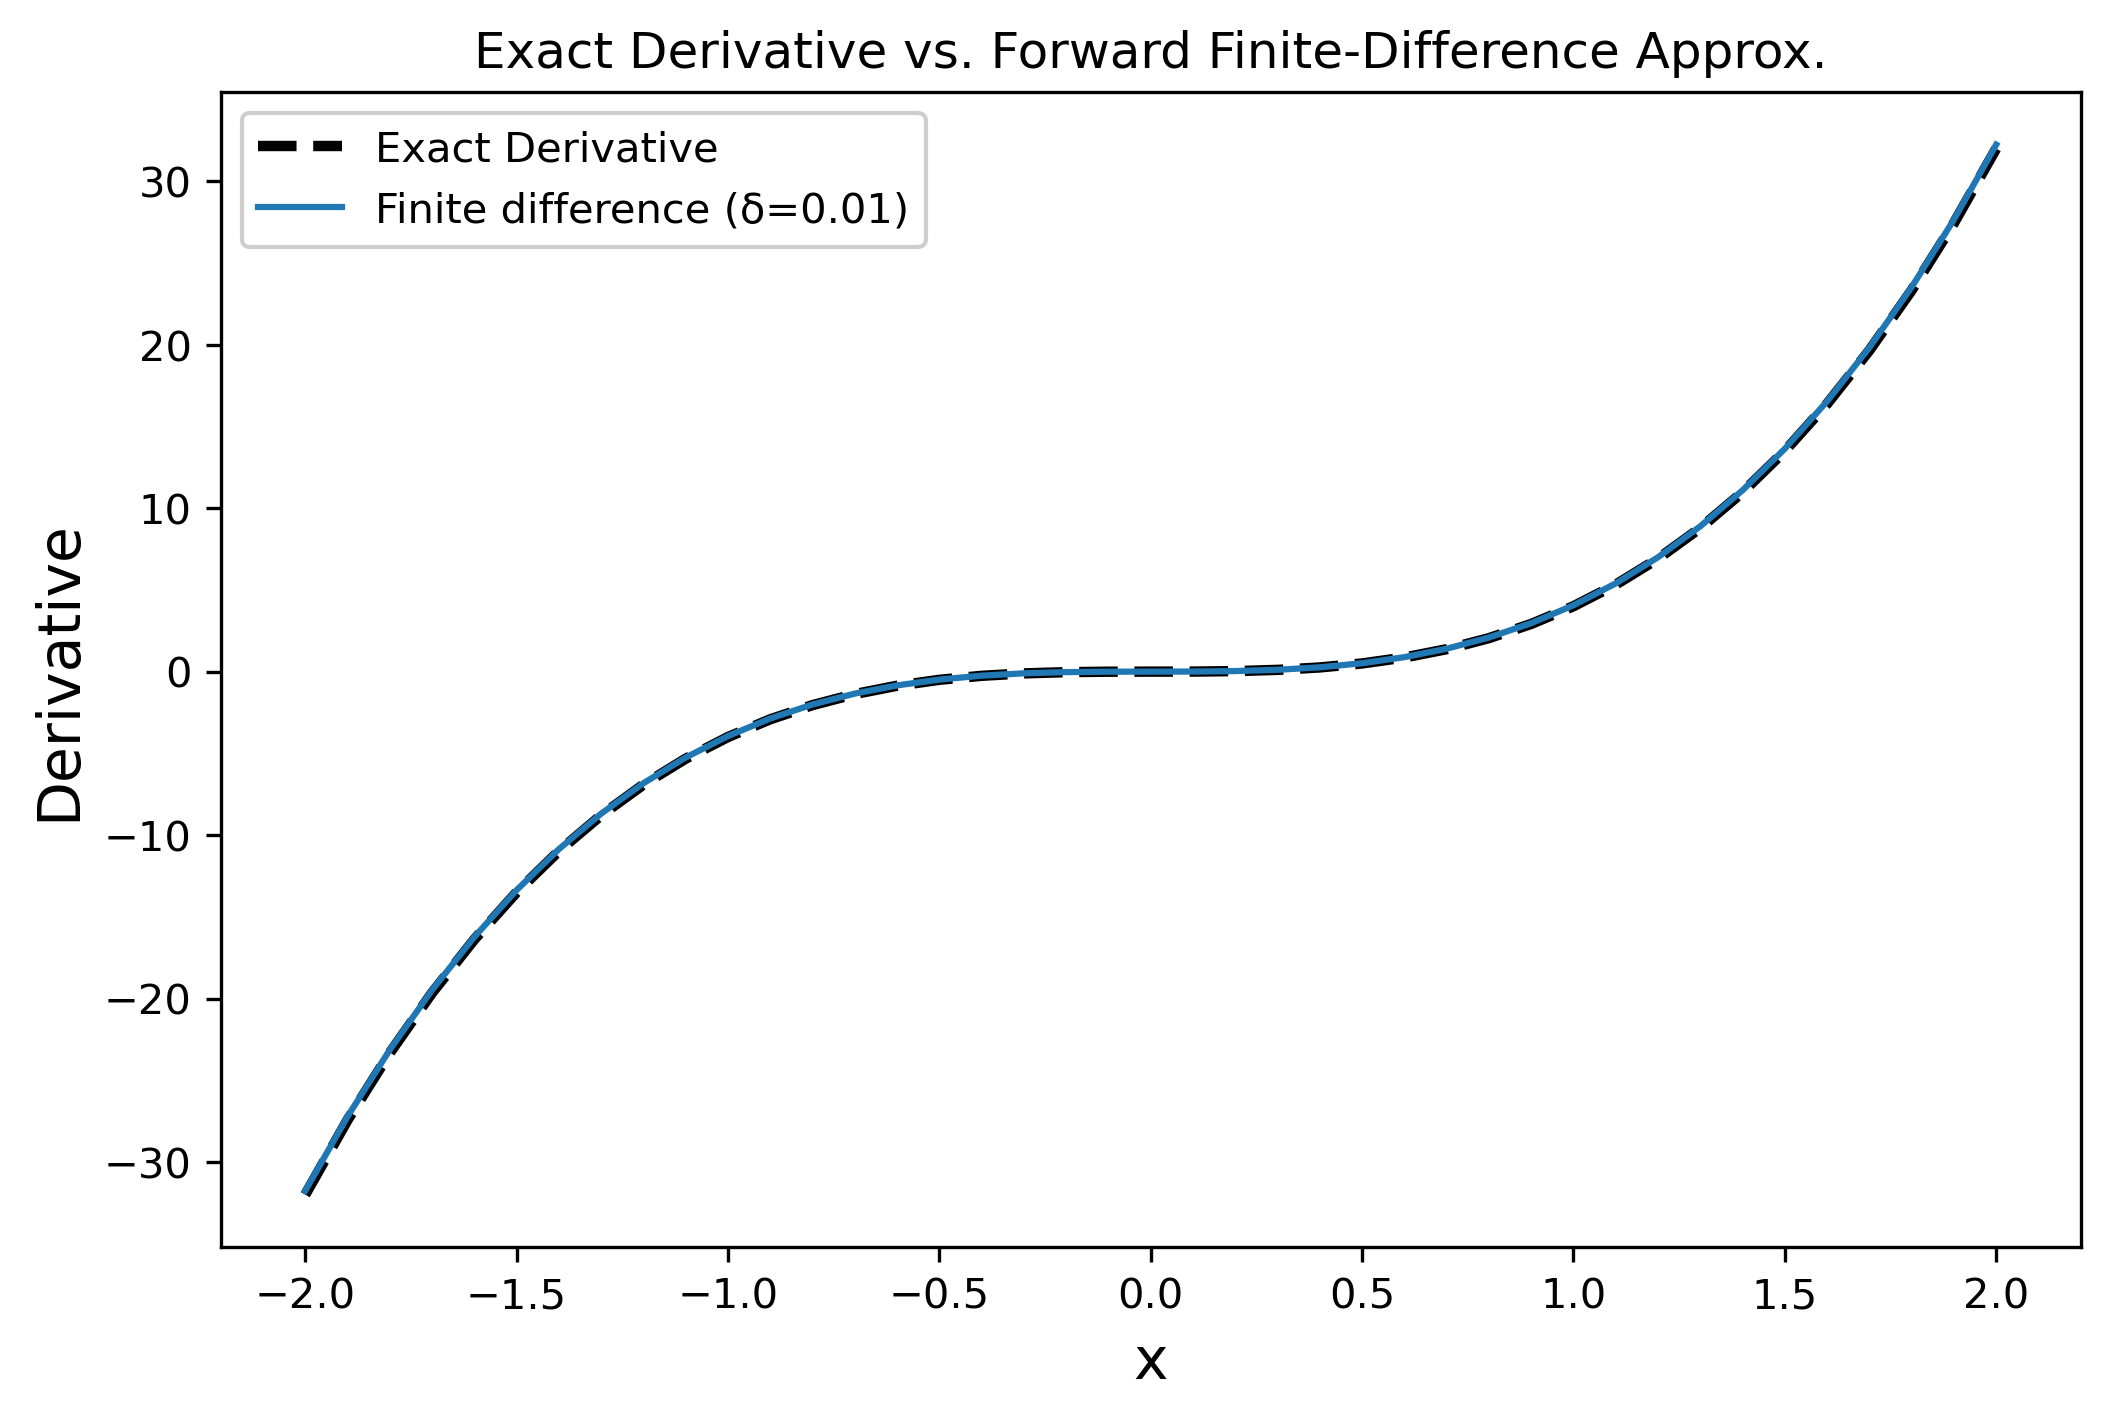
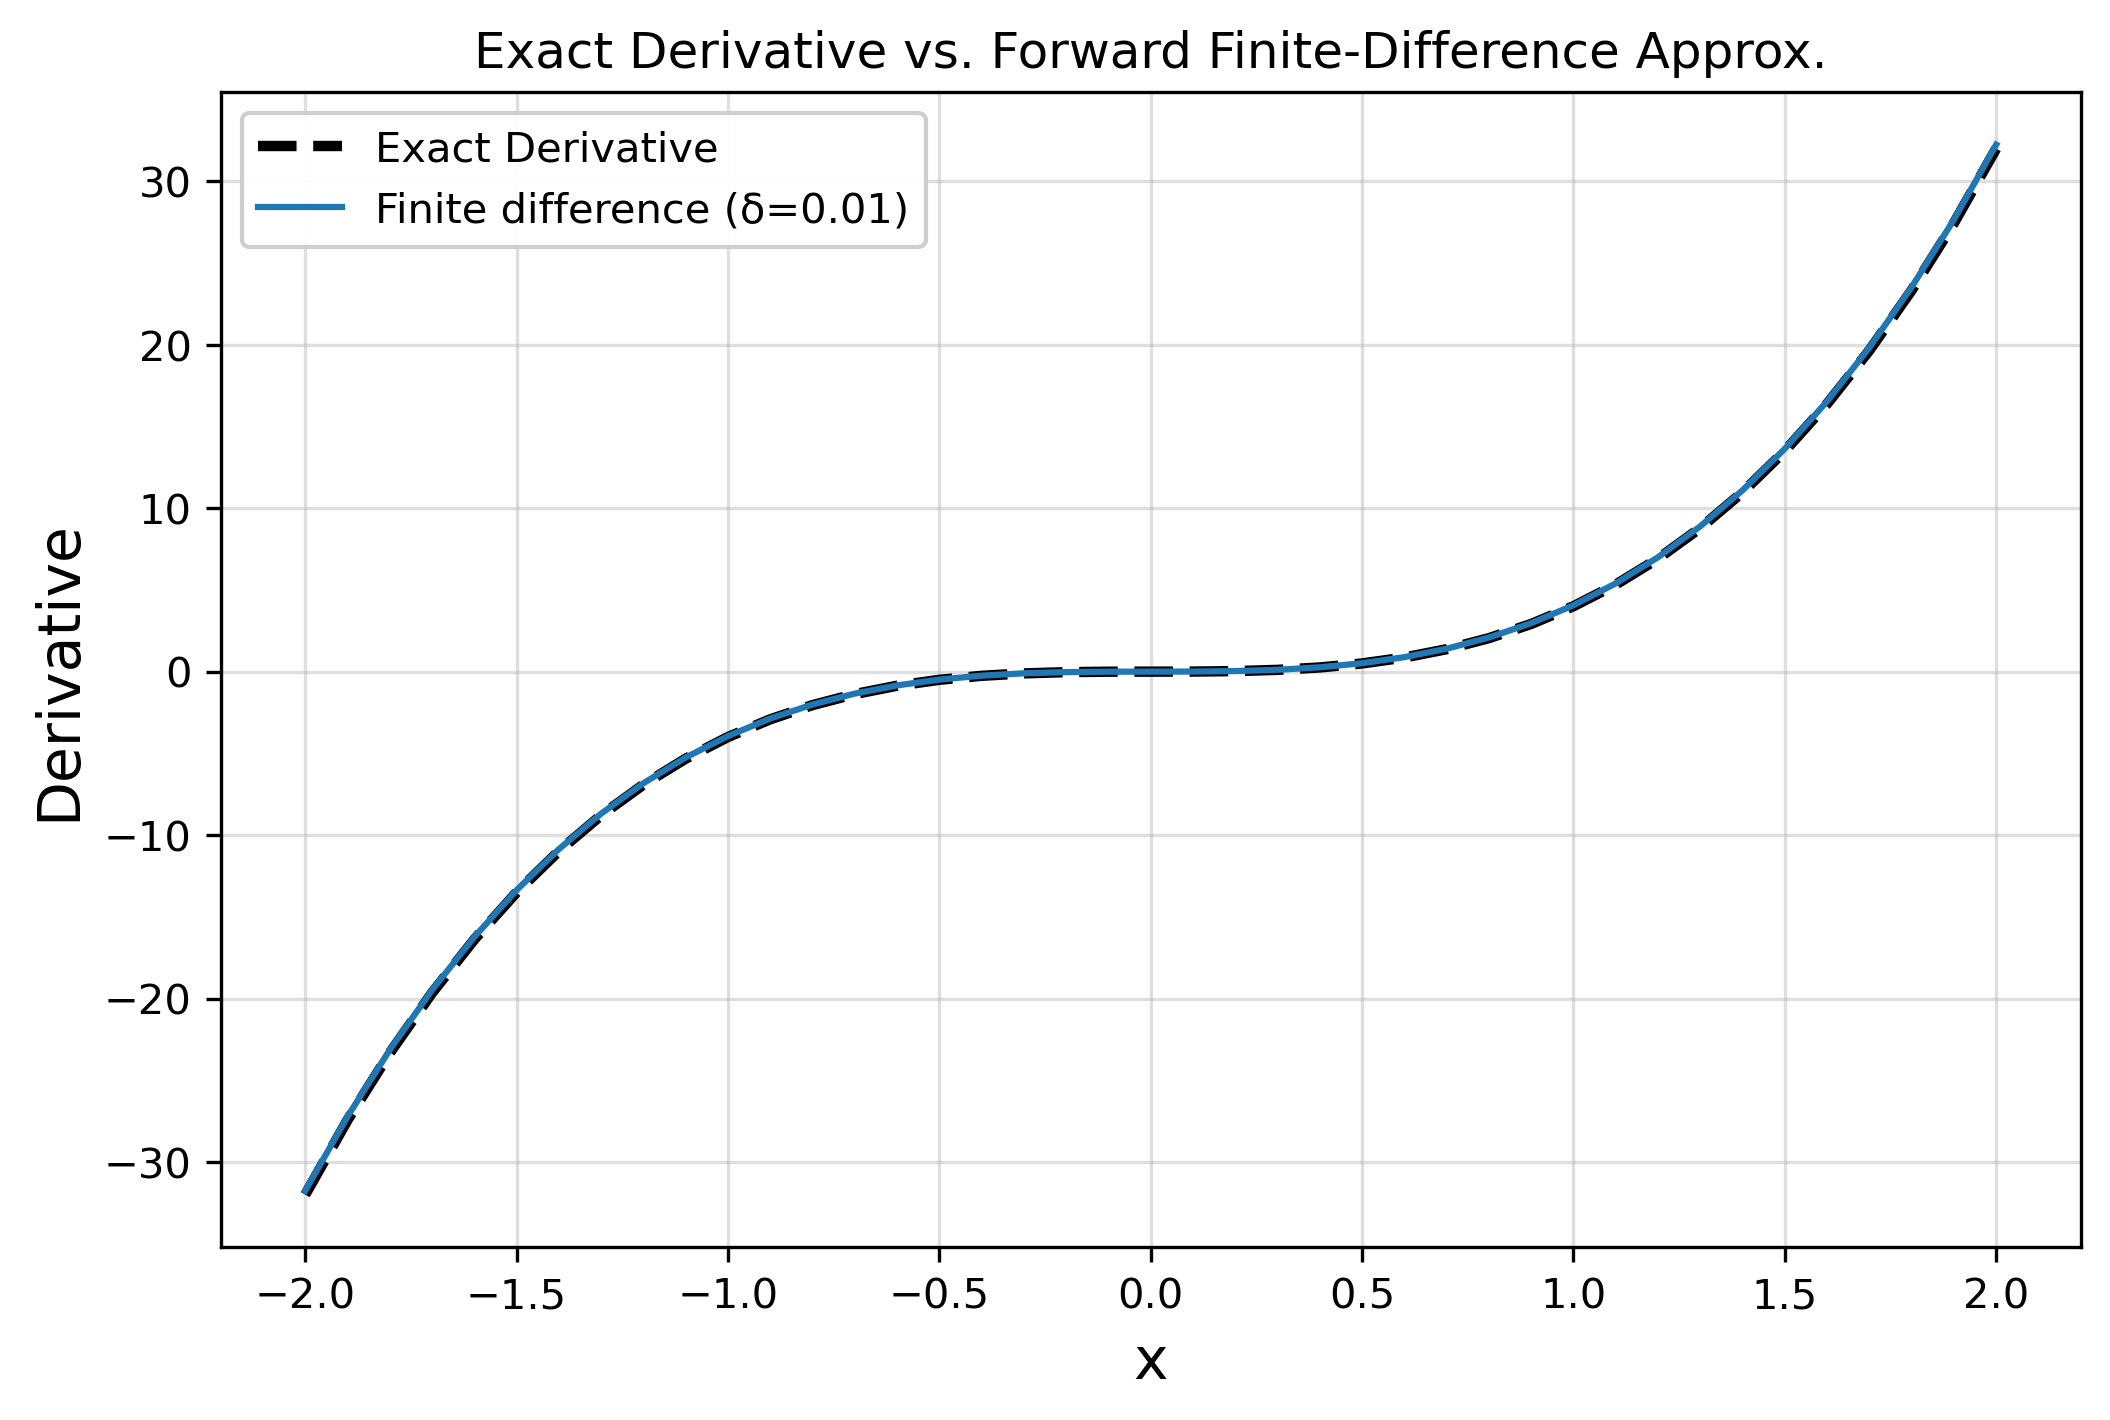
fix: created single plot for question 1e and applied log scale to alpha 1.2

diff --git a/week2/week2.py b/week2/week2.py
@@ -1,12 +1,13 @@
 import os
 import random
-from typing import Callable, List
+from typing import List
 
 import numpy as np
+from IPython.display import display
 from matplotlib import pyplot as plt
 from sympy import Abs, Symbol, diff, init_printing, lambdify, symbols
 
-init_printing(pretty_print=True, use_latex=False)
+init_printing(use_unicode=True, use_latex=False)
 
 
 def gradient_descent(func, args: List[Symbol], a=0.05, initial_vals=None, iters=50):
@@ -35,40 +36,41 @@ def gradient_descent(func, args: List[Symbol], a=0.05, initial_vals=None, iters=
 def gradient_descent_foo(derivatives: List, args: List, a=0.05, initial=1.5, iters=50):
     xs = [initial] * len(args)
 
-    xs_walk = [xs]
+    steps = [xs]
     for _ in range(iters):
         xs = [x - a * d(x) for x, d in zip(xs, derivatives)]
-        xs_walk.append(xs)
+        steps.append(xs)
 
-    return xs, xs_walk
+    return xs, steps
 
 
 def question_1():
     x = symbols('x', real=True)
-    f = x**4
-    dfdx = diff(f, x)
-    print(dfdx)
+    f_sym = x**4
+    dfdx = diff(f_sym, x)
+    display(f_sym, dfdx)
 
     ### part b
-    f = lambdify(x, f)
+    f_sym = lambdify(x, f_sym)
     dfdx = lambdify(x, dfdx)
+    delta = 0.01
+    finite_diff_approx = lambda x, d: (f_sym(x + d) - f_sym(x)) / d
 
-    x_values = np.arange(-2, 2.1, 0.1)
-    y_values = [dfdx(x) for x in x_values]
+    x_range = np.arange(-2, 2.1, 0.1)
 
     plt.figure(figsize=(8, 5))
-    plt.plot(x_values, y_values, 'k--', label='Exact Derivative', linewidth=2.5)
-
-    finite_diff_approx = lambda f, x, delta: (f(x + delta) - f(x)) / delta
-
-    y_values_approx = [finite_diff_approx(f, xs, delta=0.01) for xs in x_values]
-
-    plt.plot(x_values, y_values_approx, label=f'Finite difference (δ={0.01})')
+    plt.plot(x_range, dfdx(x_range), 'k--', label='Exact Derivative', linewidth=2.5)
+    plt.plot(
+        x_range,
+        finite_diff_approx(x_range, delta),
+        label=f'Finite difference (δ={0.01})',
+    )
 
     plt.title('Exact Derivative vs. Forward Finite-Difference Approx.')
     plt.xlabel('x', fontsize=14)
     plt.ylabel('Derivative', fontsize=14)
     plt.legend(loc='best', framealpha=0.95)
+    plt.grid(visible=True, alpha=0.4)
     plt.savefig('./images/question1.b.png', dpi=300, bbox_inches='tight')
     plt.show()
 
@@ -82,12 +84,14 @@ def question_1():
 
     mean_squared_errors = []
     for d in deltas:
-        y_approx_values = [finite_diff_approx(f, x, d) for x in x_values]
-        mean_squared_errors.append(mae(y_values, y_approx_values))
+        expected = dfdx(x_range)
+        actual = finite_diff_approx(x_range, d)
+        mean_squared_errors.append(mae(expected, actual))
 
     plt.plot(deltas, mean_squared_errors, marker='o', label='MAE')
     plt.title('MAE for different δ', fontsize=16, pad=10)
     plt.xlabel('δ', fontsize=14)
+    plt.xscale('log')
     plt.ylabel('MAE', fontsize=14)
     plt.grid(visible=True, alpha=0.4)
     plt.tight_layout()
@@ -97,45 +101,46 @@ def question_1():
 
     ### part d
     x = symbols('x')
-    f = x**4
+    f_sym = x**4
 
-    def gradient_descent(function, args, iterations=100, alpha=0.05, initial_value=1):
+    def gradient_descent(function, args, iters=100, alpha=0.05, init_val=1):
 
-        f = lambdify(args, function)
         dfdx = lambdify(args, diff(function, args))
-        x = initial_value
-        x_walk = [x]
-        function_values = [f(x)]
+        x = init_val
+        steps = [x]
 
-        for iteration in range(1, iterations + 1):
+        for _ in range(1, iters):
             step = alpha * dfdx(x)
             x -= step
-            x_walk.append(x)
-            function_values.append(f(x))
+            steps.append(x)
 
-            if iteration % 10 == 0:
-                print(f'Iteration: {iteration}, value: {x}')
+        return x, np.array(steps)
 
-        plt.plot(range(iterations + 1), function_values, label='f(x)')
-        plt.plot(range(iterations + 1), x_walk, label='x')
-        plt.title(f'f(x) and x vs. iterations, {alpha=}')
-        plt.xlabel('iterations')
-        plt.ylabel('f(x) / x')
-        plt.legend(loc='best', framealpha=0.95)
-        plt.savefig(
-            f'./images/question1e_alpha={alpha}.png', dpi=300, bbox_inches='tight'
-        )
-        plt.show()
-        return x
+    alphas = [0.05, 0.5, 1.2]
+    _, axes = plt.subplots(1, len(alphas), figsize=(21, 8))
+    f = lambdify(x, f_sym)
 
-    optimum = gradient_descent(f, x, iterations=20, alpha=0.05, initial_value=1)
-    print(f'{optimum=}, {0.05=}')
+    for alpha, ax in zip(alphas, axes):
+        iters = 30 if alpha <= 1 else 5
+        x_range = range(1, iters + 1)
 
-    optimum = gradient_descent(f, x, iterations=20, alpha=0.5, initial_value=1)
-    print(f'{optimum=}, {0.5=}')
+        _, steps = gradient_descent(f_sym, x, iters, alpha=alpha, init_val=1)
 
-    optimum = gradient_descent(f, x, iterations=5, alpha=1.2, initial_value=1)
-    print(f'{optimum=}, {1.2=}')
+        ax.plot(x_range, steps, label='x', marker='o')
+        ax.plot(x_range, f(steps), label='f(x)', marker='o')
+        ax.set_title(f'f(x) and x vs. Iterations, {alpha=}', fontsize=14)
+        ax.set_xlabel('Iterations', fontsize=14)
+        ax.set_ylabel('f(x) / x', fontsize=14)
+        if alpha >= 1:
+            ax.set_yscale('symlog')
+            print(steps)
+            print(f(steps))
+
+        ax.legend(loc='best', framealpha=0.95)
+        ax.grid(visible=True, alpha=0.4)
+
+    plt.savefig('./images/question1e.png', dpi=300, bbox_inches='tight')
+    plt.show()
 
 
 ### Question II
@@ -387,7 +392,7 @@ if __name__ == '__main__':
         os.makedirs('./images')
 
     question_1()
-    question_2()
-    question_3()
-    question_4_a_b()
-    question_4_c_d()
+    # question_2()
+    # question_3()
+    # question_4_a_b()
+    # question_4_c_d()
